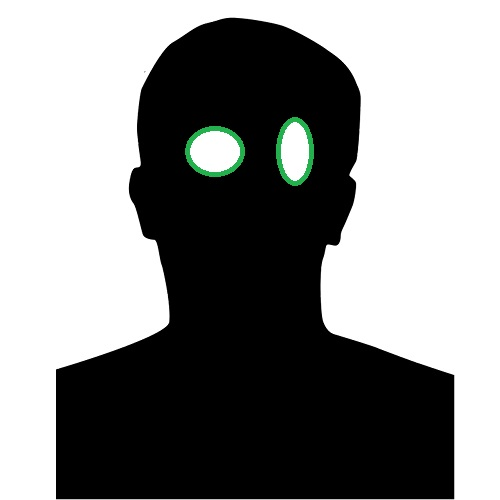
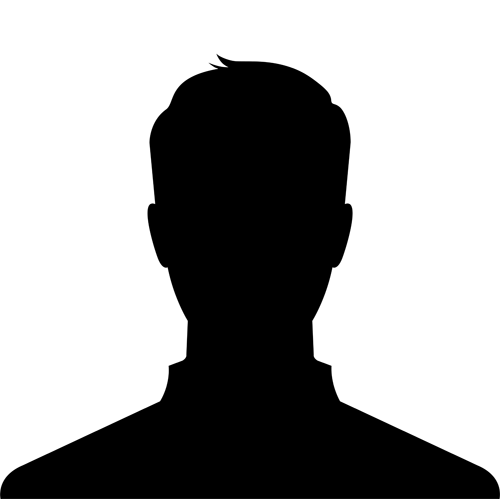
Merge to dev branch
dupe artists cannot be added. dupe stages cannot be added. artist image has been changed

diff --git a/src/GUILogic/DataController.java b/src/GUILogic/DataController.java
@@ -1,23 +1,12 @@
 package GUILogic;
 
-import Enumerators.Genres;
-import PlannerData.Artist;
 import PlannerData.Planner;
-import PlannerData.Show;
-import PlannerData.Stage;
+import com.google.gson.Gson;
 
-
-import javax.json.Json;
-import javax.json.JsonArray;
-import javax.json.JsonObject;
-import javax.json.JsonReader;
-import javax.management.Descriptor;
 import java.io.File;
 import java.io.FileReader;
 import java.io.IOException;
 import java.io.Reader;
-import java.time.LocalTime;
-import java.util.ArrayList;
 
 import static PlannerData.Planner.saveFileName;
 
@@ -27,6 +16,7 @@ public class DataController {
 
     public DataController() {
         planner = new Planner();
+        Gson gson = new Gson();
 
         try {
             File file = new File(saveFileName);
@@ -34,49 +24,8 @@ public class DataController {
                 file.createNewFile();
             } else {
                 try (Reader reader = new FileReader(saveFileName)) {
-                    if (file.length() != 0){
-                        JsonReader jsonReader = Json.createReader(reader);
-                        JsonObject planner = jsonReader.readObject();
-                        JsonArray shows = planner.getJsonArray("shows");
-                        JsonArray artists = planner.getJsonArray("artists");
-                        JsonArray stages = planner.getJsonArray("stages");
-                        for(JsonObject stage : stages.getValuesAs(JsonObject.class)){
-                            String name = stage.getString("name");
-                            int capacity = stage.getInt("capacity");
-                            this.planner.getStages().add(new Stage( capacity,name));
-                        }
-                        for(JsonObject artist : artists.getValuesAs(JsonObject.class)){
-                            String name = artist.getString("name");
-                            String description = artist.getString("description");
-                            Genres genre = stringToGenre(artist.getString("genre"));
-                            this.planner.getArtists().add(new Artist(name, genre, description));
-                        }
-                        for(JsonObject show : shows.getValuesAs(JsonObject.class)){
-                            JsonArray showArtists = show.getJsonArray("artists");
-                            JsonObject stage = show.getJsonObject("stage");
-
-                            ArrayList<Artist> artistsInShow = new ArrayList<>();
-                            for(JsonObject artist : showArtists.getValuesAs(JsonObject.class)){
-                                artistsInShow.add(new Artist(artist.getString("name"),stringToGenre(artist.getString("genre")),artist.getString("description")));
-                            }
-
-                            Stage stageInShow = new Stage(stage.getInt("capacity"),stage.getString("name"));
-                            String name = show.getString("name");
-                            Genres genre = stringToGenre( show.getString("genre"));
-                            String description = show.getString("description");
-                            int expectedPopularity = show.getInt("expectedPopularity");
-                            ArrayList<Genres> genres =  new ArrayList<>();
-                            genres.add(genre);
-                            LocalTime beginTime = stringToLocalTime(show.getString("beginTime"));
-                            LocalTime endTime = stringToLocalTime(show.getString("endTime"));
-                            Show readShow = new Show(beginTime,endTime,artistsInShow,name,stageInShow,description,genres,expectedPopularity);
-                            this.planner.getShows().add(readShow);
-                        }
-                    }
-                    else{
-
-                    }
-
+                    if (file.length() != 0)
+                        planner = gson.fromJson(reader, Planner.class);
                 } catch (Exception e) {
                     System.out.println("error loading data due to: ");
                     e.printStackTrace();
@@ -111,23 +60,5 @@ public class DataController {
 
     static Planner getPlanner() {
         return planner;
-    }
-
-    private LocalTime stringToLocalTime(String time){
-        int hours = Integer.parseInt( time.charAt(0) + "") * 10 + Integer.parseInt( time.charAt(1)+"");
-        int minutes = Integer.parseInt( time.charAt(3) + "") * 10 + Integer.parseInt( time.charAt(4)+"");
-        LocalTime localTime = LocalTime.MIN;
-        localTime = localTime.plusHours(hours);
-        localTime = localTime.plusMinutes(minutes);
-        return  localTime;
-    }
-
-    private Genres stringToGenre(String text){
-        for(Genres genre : Genres.values()){
-            if( text.equals(genre.getFancyName())){
-                return genre;
-            }
-        }
-        return null;
     }
 }

diff --git a/src/GUILogic/AddingNewWindow.java b/src/GUILogic/AddingNewWindow.java
@@ -1,6 +1,7 @@
 package GUILogic;
 
 import Enumerators.Genres;
+import PlannerData.Artist;
 import javafx.geometry.Insets;
 import javafx.geometry.Pos;
 import javafx.scene.Scene;
@@ -99,6 +100,13 @@ public class AddingNewWindow {
 
         if (stageName.getText().length() == 0) {
             this.errorList.add("The stage name has not been filled in.");
+        } else {
+            for (PlannerData.Stage stage : DataController.getPlanner().getStages()) {
+                if (stageName.getText().equals(stage.getName())) {
+                    this.errorList.add("The stage has already been added.");
+                }
+            }
+
         }
 
         if (capacity.getText().length() == 0) {
@@ -129,11 +137,11 @@ public class AddingNewWindow {
         return addedStage;
     }
 
-    public Boolean stageUpdate(){
+    public Boolean stageUpdate() {
         return this.stageUpdate;
     }
 
-    public void resetUpdate(){
+    public void resetUpdate() {
         this.stageUpdate = false;
     }
 
@@ -196,31 +204,31 @@ public class AddingNewWindow {
         this.currentStage.show();
     }
 
-    public ArrayList<String> getArtistImages(){
+    public ArrayList<String> getArtistImages() {
         ArrayList<String> imagesStrings = new ArrayList<>();
 
         File directory = new File("Resources/Artist_Images");
         File[] filesArray = directory.listFiles();
 
-        for (File file : filesArray){
+        for (File file : filesArray) {
             if (file.isFile() &&
                     (file.getName().contains(".png") ||
                             file.getName().contains(".jpg") ||
-                            file.getName().contains(".jpeg"))){
+                            file.getName().contains(".jpeg"))) {
                 imagesStrings.add(file.getName());
             }
         }
         return imagesStrings;
     }
 
-    public String getFileName(String fileName){
+    public String getFileName(String fileName) {
         String returnString = "Not an imageFile with .jpg, .jpeg or .png!";
-        if (fileName.contains(".jpg")){
-            return fileName.substring(0,fileName.indexOf(".jpg"));
-        } else if (fileName.contains(".jpeg")){
-            return fileName.substring(0,fileName.indexOf(".jpeg"));
-        } else if (fileName.contains(".png")){
-            return fileName.substring(0,fileName.indexOf(".png"));
+        if (fileName.contains(".jpg")) {
+            return fileName.substring(0, fileName.indexOf(".jpg"));
+        } else if (fileName.contains(".jpeg")) {
+            return fileName.substring(0, fileName.indexOf(".jpeg"));
+        } else if (fileName.contains(".png")) {
+            return fileName.substring(0, fileName.indexOf(".png"));
         }
 
         return returnString;
@@ -239,22 +247,29 @@ public class AddingNewWindow {
         this.errorList.clear();
         if (artistName.getText().length() == 0) {
             this.errorList.add("The artist's name has not been filled in.");
-        }
+        } else {
+            for (Artist artist : DataController.getPlanner().getArtists()) {
+                if (artistName.getText().equals(artist.getName())) {
+                    this.errorList.add("The Artist has already been added.");
+                }
+            }
 
-        if (artistDescription.getText().length() == 0) {
-            this.errorList.add("The artist's description has not been filled in.");
-        }
 
-        if (this.errorList.isEmpty()) {
-            try {
-                DataController.getPlanner().addArtist(artistName.getText(), Genres.getGenre(genre), description.getText());
-                this.currentStage.close();
-            } catch (Exception e) {
-                this.errorList.add("Failed to add the artist.");
+            if (artistDescription.getText().length() == 0) {
+                this.errorList.add("The artist's description has not been filled in.");
+            }
+
+            if (this.errorList.isEmpty()) {
+                try {
+                    DataController.getPlanner().addArtist(artistName.getText(), Genres.getGenre(genre), description.getText());
+                    this.currentStage.close();
+                } catch (Exception e) {
+                    this.errorList.add("Failed to add the artist.");
+                    new ErrorWindow(this.currentStage, this.errorList);
+                }
+            } else {
                 new ErrorWindow(this.currentStage, this.errorList);
             }
-        } else {
-            new ErrorWindow(this.currentStage, this.errorList);
         }
     }
 }

diff --git a/src/GUILogic/ScheduleTab.java b/src/GUILogic/ScheduleTab.java
@@ -88,14 +88,17 @@ public class ScheduleTab {
 
         TableColumn artistCol = new TableColumn("Artists");
         artistCol.setPrefWidth(300);
+
         artistCol.setCellValueFactory(new PropertyValueFactory<>("ArtistsNames"));
         TableColumn genreCol = new TableColumn("Genre");
         genreCol.setPrefWidth(100);
+
         genreCol.setCellValueFactory(new PropertyValueFactory<>("genre"));
 
         TableColumn popularityCol = new TableColumn("Popularity");
         popularityCol.setPrefWidth(100);
         popularityCol.setCellValueFactory(new PropertyValueFactory<>("expectedPopularity"));
+
         this.table.setPrefWidth(800);
 
         this.table.getColumns().addAll(nameColumn, beginTimeCol, endTimeCol, stageCol, artistCol, genreCol, popularityCol);
